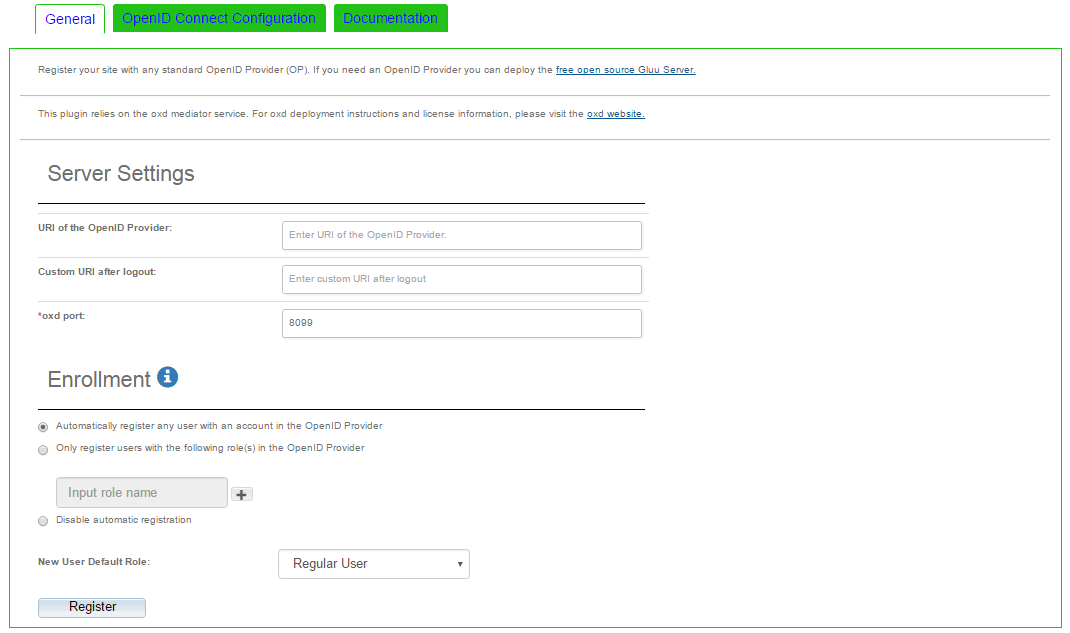
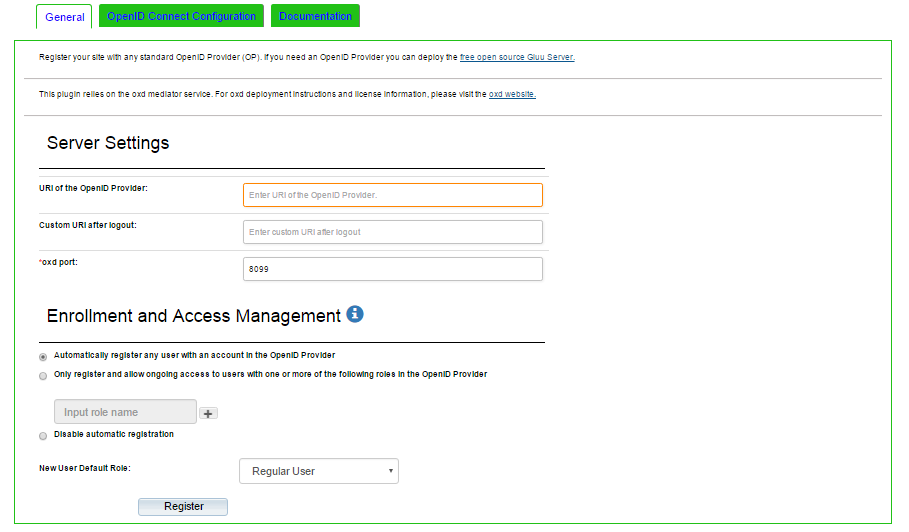
updating doc and images

Changed region(s): [[0.0, 0.0, 1.0, 0.9925], [0.2464, 0.8421, 0.4312, 0.9323], [0.2156, 0.7519, 0.2464, 0.782]]

diff --git a/README.md b/README.md
@@ -7,6 +7,8 @@ Gluu's OpenID Connect Single Sign-On (SSO) SugarCRM module will enable you to au
 ## Requirements
 In order to use the SugarCRM module you will need to have a standard OP (like Google or a Gluu Server) and the oxd server.
 
+* Compatibility : 6.5 <= 7.6 versions
+
 * [Gluu Server Installation Guide](https://www.gluu.org/docs/deployment/).
 
 * [oxd Server Installation Guide](https://oxd.gluu.org/docs/oxdserver/install/)
@@ -56,6 +58,14 @@ To generate your `client_id` and `client_secret` use the redirect uri: `https://
 
 > If you are using a Gluu server as your OpenID Provider, you can make sure everything is configured properly by logging into to your Gluu Server, navigate to the OpenID Connect > Clients page. Search for your `oxd id`.
 
+### Attention
+
+Please add the following lines to your config_override.php file.
+ 
+`$sugar_config['http_referer']['list'][] = your-openid-provider.uri`;
+`$sugar_config['http_referer']['actions'] =array('index', 'ListView', 'DetailView', 'EditView', 'oauth', 'authorize', 'Authenticate', 'Login', 'SupportPortal', 'Wizard', 'index', 'ListView', 'DetailView', 'EditView', 'oauth', 'authorize', 'Authenticate', 'Login', 'SupportPortal', 'SetTimezone' );`
+
+
 #### Enrollment and Access Management
 
 Navigate to your Gluu Server admin GUI. Click the `Users` tab in the left hand navigation menu. Select `Manage People`. Find the person(s) who should have access. Click their user entry. Add the `User Permission` attribute to the person and specify the same value as in the module. For instance, if in the module you have limit enrollment to user(s) with role = `sugarcrm`, then you should also have `User Permission` = `sugarecrm` in the user entry. Update the user record, and now they are ready for enrollment at your SugarCRM site. 
@@ -70,7 +80,7 @@ Scopes are groups of user attributes that are sent from the OP to the applicatio
 
 To view your OP's available scopes, in a web browser navigate to `https://OpenID-Provider/.well-known/openid-configuration`. For example, here are the scopes you can request if you're using [Google as your OP](https://accounts.google.com/.well-known/openid-configuration). 
 
-If you are using a Gluu server as your OpenID Provider, you can view all available scopes by navigating to the OpenID Connect > Scopes intefrace. 
+If you are using a Gluu server as your OpenID Provider, you can view all available scopes by navigating to the OpenID Connect > Scopes interface. 
 
 In the module interface you can enable, disable and delete scopes. 
 
@@ -89,7 +99,7 @@ When it is not checked, it will give proof the following screen.
 
 To signal which type of authentication should be used, an OpenID Connect client may request a specific authentication context class reference value (a.k.a. "acr"). The authentication options available will depend on which types of mechanisms the OP has been configured to support. The Gluu Server supports the following authentication mechanisms out-of-the-box: username/password (basic), Duo Security, Super Gluu, and U2F tokens, like Yubikey.  
 
-Navigate to your OpenID Provider confiuration webpage `https://OpenID-Provider/.well-known/openid-configuration` to see supported `acr_values`. In the `Select acr` section of the module page, choose the mechanism which you want for authentication. 
+Navigate to your OpenID Provider configuration webpage `https://OpenID-Provider/.well-known/openid-configuration` to see supported `acr_values`. In the `Select acr` section of the module page, choose the mechanism which you want for authentication. 
 
 Note: If the `Select acr` value is `none`, users will be sent to pass the OP's default authentication mechanism.
 
